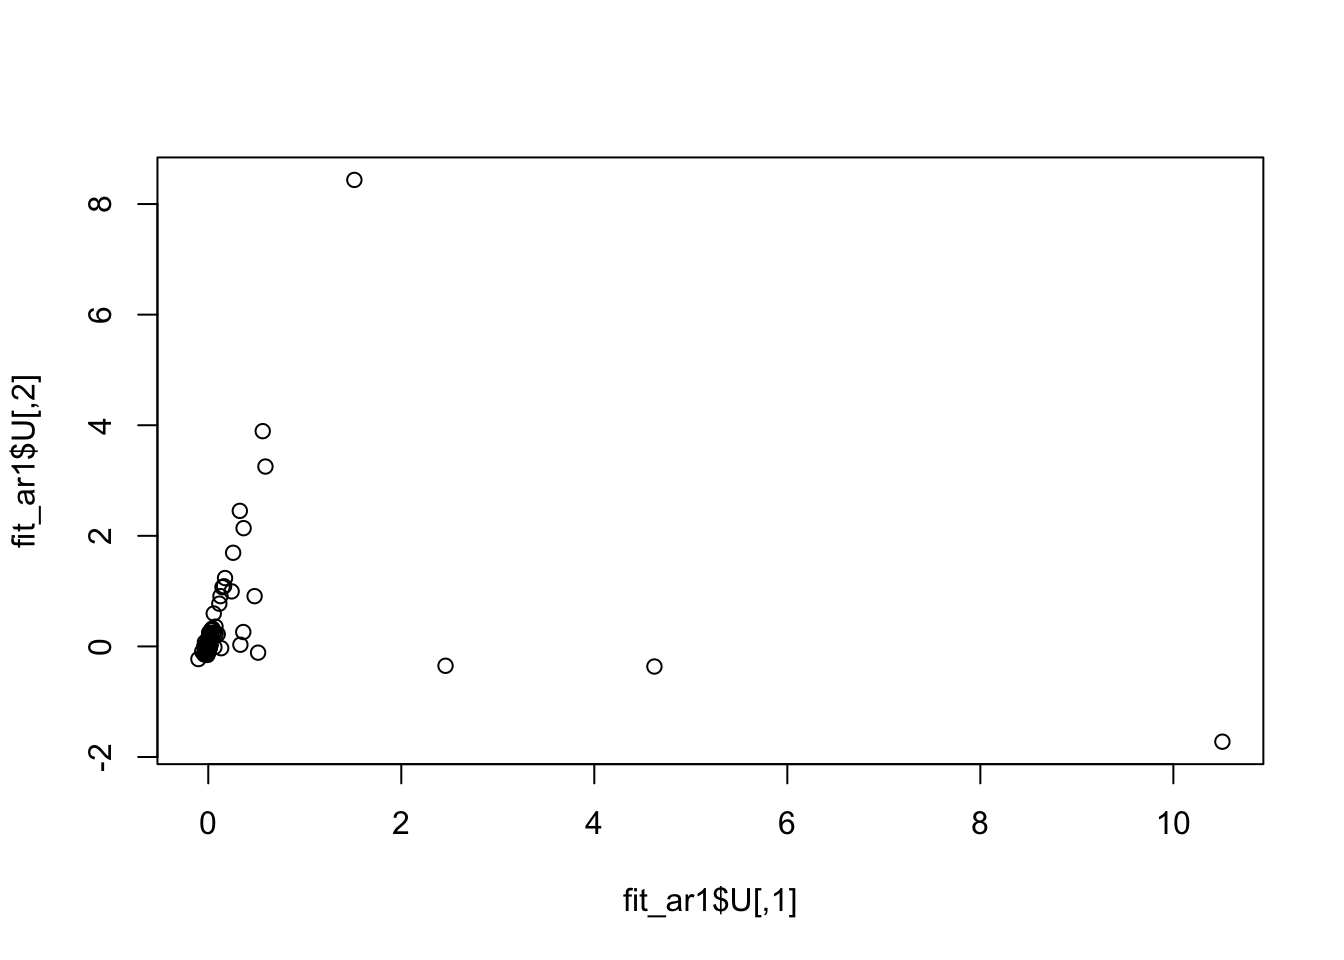
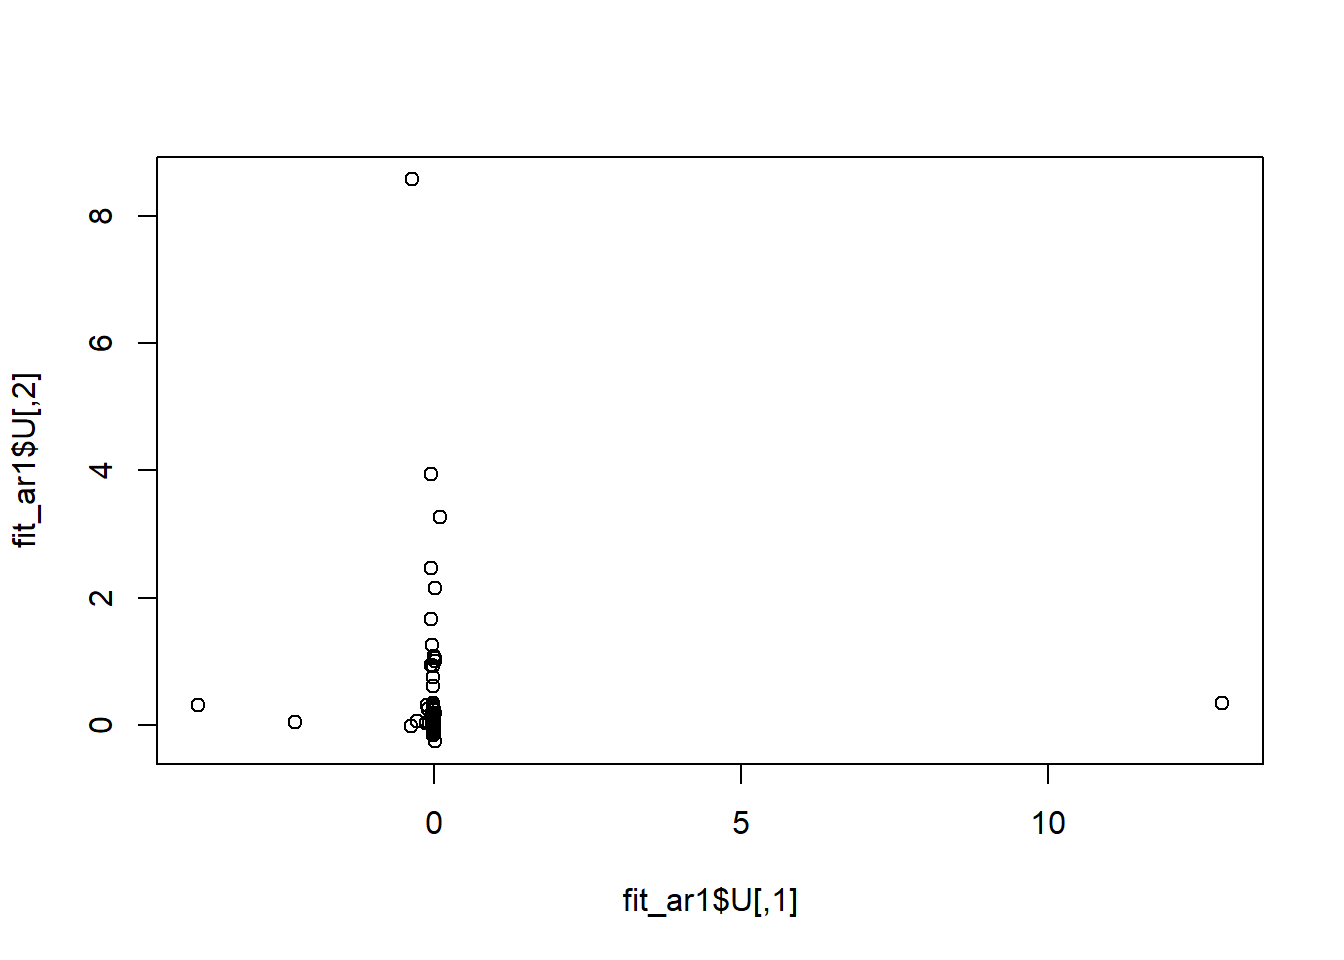
Updated model with family instead of model in ame

diff --git a/docs/week10.html b/docs/week10.html
@@ -14,7 +14,7 @@
 
 <title>Week 10</title>
 
-<script src="site_libs/header-attrs-2.11/header-attrs.js"></script>
+<script src="site_libs/header-attrs-2.20/header-attrs.js"></script>
 <script src="site_libs/jquery-3.6.0/jquery-3.6.0.min.js"></script>
 <meta name="viewport" content="width=device-width, initial-scale=1" />
 <link href="site_libs/bootstrap-3.3.5/css/bootstrap.min.css" rel="stylesheet" />
@@ -61,6 +61,7 @@ if (window.hljs) {
 
 
 
+
 <style type = "text/css">
 .main-container {
   max-width: 940px;
@@ -81,6 +82,9 @@ button.code-folding-btn:focus {
 }
 summary {
   display: list-item;
+}
+details > summary > p:only-child {
+  display: inline;
 }
 pre code {
   padding: 0;
@@ -138,11 +142,15 @@ $(document).ready(function () {
     href = "index.html";
   var menuAnchor = $('a[href="' + href + '"]');
 
-  // mark it active
-  menuAnchor.tab('show');
-
-  // if it's got a parent navbar menu mark it active as well
-  menuAnchor.closest('li.dropdown').addClass('active');
+  // mark the anchor link active (and if it's in a dropdown, also mark that active)
+  var dropdown = menuAnchor.closest('li.dropdown');
+  if (window.bootstrap) { // Bootstrap 4+
+    menuAnchor.addClass('active');
+    dropdown.find('> .dropdown-toggle').addClass('active');
+  } else { // Bootstrap 3
+    menuAnchor.parent().addClass('active');
+    dropdown.addClass('active');
+  }
 
   // Navbar adjustments
   var navHeight = $(".navbar").first().height() + 15;
@@ -171,8 +179,8 @@ $(document).ready(function () {
   border-radius: 4px;
 }
 
-.tabset-dropdown > .nav-tabs > li.active:before {
-  content: "";
+.tabset-dropdown > .nav-tabs > li.active:before, .tabset-dropdown > .nav-tabs.nav-tabs-open:before {
+  content: "\e259";
   font-family: 'Glyphicons Halflings';
   display: inline-block;
   padding: 10px;
@@ -180,16 +188,9 @@ $(document).ready(function () {
 }
 
 .tabset-dropdown > .nav-tabs.nav-tabs-open > li.active:before {
-  content: "&#xe258;";
-  border: none;
-}
-
-.tabset-dropdown > .nav-tabs.nav-tabs-open:before {
-  content: "";
+  content: "\e258";
   font-family: 'Glyphicons Halflings';
-  display: inline-block;
-  padding: 10px;
-  border-right: 1px solid #ddd;
+  border: none;
 }
 
 .tabset-dropdown > .nav-tabs > li.active {
@@ -233,7 +234,7 @@ $(document).ready(function () {
 <div class="navbar navbar-default  navbar-fixed-top" role="navigation">
   <div class="container">
     <div class="navbar-header">
-      <button type="button" class="navbar-toggle collapsed" data-toggle="collapse" data-target="#navbar">
+      <button type="button" class="navbar-toggle collapsed" data-toggle="collapse" data-bs-toggle="collapse" data-target="#navbar" data-bs-target="#navbar">
         <span class="icon-bar"></span>
         <span class="icon-bar"></span>
         <span class="icon-bar"></span>
@@ -285,16 +286,34 @@ $(document).ready(function () {
 
 
 <h1 class="title toc-ignore">Week 10</h1>
-<h4 class="author">Nils W Metternich, Luis Schenoni, and Sigrid Weber</h4>
+<h4 class="author">Nils W Metternich, Luis Schenoni, and Sigrid
+Weber</h4>
 <h4 class="date">2022/23</h4>
 
 </div>
 
 
-<div id="inferential-network-analysis-in-r-part-3" class="section level2">
+<div id="inferential-network-analysis-in-r-part-3"
+class="section level2">
 <h2>Inferential Network Analysis in R (Part 3)</h2>
-<p>This week we look at the second major approach to estimating networks: Latent network models. These are different to ERGMs as they are more concerned about unbiased estimatation of sender, receiver, and dyad effects in the presence of third-order network effects, rather than actually testing which third-order network effects are present. In a sense, latent network models are complicated random effects models, where we try to account for unobserved (e.g. unmeasured third order network effects). We will use the MID and contiguity data to explore this method, but using the MID count as an outcome. Hence, whereas in the past weeks we have focused mostly on binary outcomes, we will now work with weighted network. Since, some of you might have weighted networks, we also will plot and them and introduce the stength of ties as an additional measure.</p>
-<p>This week we also use two additional packages. Igraph: which is an alternative to statnet and has its own plotting and network statistics functions. We will only use it to calculate the strength of ties. Then there is the amen package by Peter Hoff, which allows us to estimate latent network models.</p>
+<p>This week we look at the second major approach to estimating
+networks: Latent network models. These are different to ERGMs as they
+are more concerned about unbiased estimatation of sender, receiver, and
+dyad effects in the presence of third-order network effects, rather than
+actually testing which third-order network effects are present. In a
+sense, latent network models are complicated random effects models,
+where we try to account for unobserved (e.g. unmeasured third order
+network effects). We will use the MID and contiguity data to explore
+this method, but using the MID count as an outcome. Hence, whereas in
+the past weeks we have focused mostly on binary outcomes, we will now
+work with weighted network. Since, some of you might have weighted
+networks, we also will plot and them and introduce the stength of ties
+as an additional measure.</p>
+<p>This week we also use two additional packages. Igraph: which is an
+alternative to statnet and has its own plotting and network statistics
+functions. We will only use it to calculate the strength of ties. Then
+there is the amen package by Peter Hoff, which allows us to estimate
+latent network models.</p>
 <pre class="r"><code>library(igraph)</code></pre>
 <pre><code>## 
 ## Attaching package: &#39;igraph&#39;</code></pre>
@@ -312,15 +331,11 @@ $(document).ready(function () {
 <pre><code>## Loading required package: tergm</code></pre>
 <pre><code>## Loading required package: ergm</code></pre>
 <pre><code>## Loading required package: network</code></pre>
-<pre><code>## network: Classes for Relational Data
-## Version 1.16.0 created on 2019-11-30.
-## copyright (c) 2005, Carter T. Butts, University of California-Irvine
-##                     Mark S. Handcock, University of California -- Los Angeles
-##                     David R. Hunter, Penn State University
-##                     Martina Morris, University of Washington
-##                     Skye Bender-deMoll, University of Washington
-##  For citation information, type citation(&quot;network&quot;).
-##  Type help(&quot;network-package&quot;) to get started.</code></pre>
+<pre><code>## 
+## &#39;network&#39; 1.18.1 (2023-01-24), part of the Statnet Project
+## * &#39;news(package=&quot;network&quot;)&#39; for changes since last version
+## * &#39;citation(&quot;network&quot;)&#39; for citation information
+## * &#39;https://statnet.org&#39; for help, support, and other information</code></pre>
 <pre><code>## 
 ## Attaching package: &#39;network&#39;</code></pre>
 <pre><code>## The following objects are masked from &#39;package:igraph&#39;:
@@ -330,85 +345,50 @@ $(document).ready(function () {
 ##     is.directed, list.edge.attributes, list.vertex.attributes,
 ##     set.edge.attribute, set.vertex.attribute</code></pre>
 <pre><code>## 
-## ergm: version 3.10.4, created on 2019-06-10
-## Copyright (c) 2019, Mark S. Handcock, University of California -- Los Angeles
-##                     David R. Hunter, Penn State University
-##                     Carter T. Butts, University of California -- Irvine
-##                     Steven M. Goodreau, University of Washington
-##                     Pavel N. Krivitsky, University of Wollongong
-##                     Martina Morris, University of Washington
-##                     with contributions from
-##                     Li Wang
-##                     Kirk Li, University of Washington
-##                     Skye Bender-deMoll, University of Washington
-##                     Chad Klumb
-## Based on &quot;statnet&quot; project software (statnet.org).
-## For license and citation information see statnet.org/attribution
-## or type citation(&quot;ergm&quot;).</code></pre>
-<pre><code>## NOTE: Versions before 3.6.1 had a bug in the implementation of the bd()
-## constriant which distorted the sampled distribution somewhat. In
-## addition, Sampson&#39;s Monks datasets had mislabeled vertices. See the
-## NEWS and the documentation for more details.</code></pre>
-<pre><code>## NOTE: Some common term arguments pertaining to vertex attribute and
-## level selection have changed in 3.10.0. See terms help for more
-## details. Use &#39;options(ergm.term=list(version=&quot;3.9.4&quot;))&#39; to use old
-## behavior.</code></pre>
+## &#39;ergm&#39; 4.3.2 (2022-11-21), part of the Statnet Project
+## * &#39;news(package=&quot;ergm&quot;)&#39; for changes since last version
+## * &#39;citation(&quot;ergm&quot;)&#39; for citation information
+## * &#39;https://statnet.org&#39; for help, support, and other information</code></pre>
+<pre><code>## &#39;ergm&#39; 4 is a major update that introduces some backwards-incompatible
+## changes. Please type &#39;news(package=&quot;ergm&quot;)&#39; for a list of major
+## changes.</code></pre>
 <pre><code>## Loading required package: networkDynamic</code></pre>
 <pre><code>## 
-## networkDynamic: version 0.10.1, created on 2020-01-16
-## Copyright (c) 2020, Carter T. Butts, University of California -- Irvine
-##                     Ayn Leslie-Cook, University of Washington
-##                     Pavel N. Krivitsky, University of Wollongong
-##                     Skye Bender-deMoll, University of Washington
-##                     with contributions from
-##                     Zack Almquist, University of California -- Irvine
-##                     David R. Hunter, Penn State University
-##                     Li Wang
-##                     Kirk Li, University of Washington
-##                     Steven M. Goodreau, University of Washington
-##                     Jeffrey Horner
-##                     Martina Morris, University of Washington
-## Based on &quot;statnet&quot; project software (statnet.org).
-## For license and citation information see statnet.org/attribution
-## or type citation(&quot;networkDynamic&quot;).</code></pre>
+## &#39;networkDynamic&#39; 0.11.2 (2022-05-04), part of the Statnet Project
+## * &#39;news(package=&quot;networkDynamic&quot;)&#39; for changes since last version
+## * &#39;citation(&quot;networkDynamic&quot;)&#39; for citation information
+## * &#39;https://statnet.org&#39; for help, support, and other information</code></pre>
+<pre><code>## Registered S3 method overwritten by &#39;tergm&#39;:
+##   method                   from
+##   simulate_formula.network ergm</code></pre>
 <pre><code>## 
-## tergm: version 3.6.1, created on 2019-06-12
-## Copyright (c) 2019, Pavel N. Krivitsky, University of Wollongong
-##                     Mark S. Handcock, University of California -- Los Angeles
-##                     with contributions from
-##                     David R. Hunter, Penn State University
-##                     Steven M. Goodreau, University of Washington
-##                     Martina Morris, University of Washington
-##                     Nicole Bohme Carnegie, New York University
-##                     Carter T. Butts, University of California -- Irvine
-##                     Ayn Leslie-Cook, University of Washington
-##                     Skye Bender-deMoll
-##                     Li Wang
-##                     Kirk Li, University of Washington
-## Based on &quot;statnet&quot; project software (statnet.org).
-## For license and citation information see statnet.org/attribution
-## or type citation(&quot;tergm&quot;).</code></pre>
+## &#39;tergm&#39; 4.1.1 (2022-11-07), part of the Statnet Project
+## * &#39;news(package=&quot;tergm&quot;)&#39; for changes since last version
+## * &#39;citation(&quot;tergm&quot;)&#39; for citation information
+## * &#39;https://statnet.org&#39; for help, support, and other information</code></pre>
+<pre><code>## 
+## Attaching package: &#39;tergm&#39;</code></pre>
+<pre><code>## The following object is masked from &#39;package:ergm&#39;:
+## 
+##     snctrl</code></pre>
 <pre><code>## Loading required package: ergm.count</code></pre>
 <pre><code>## 
-## ergm.count: version 3.4.0, created on 2019-05-15
-## Copyright (c) 2019, Pavel N. Krivitsky, University of Wollongong
-##                     with contributions from
-##                     Mark S. Handcock, University of California -- Los Angeles
-##                     David R. Hunter, Penn State University
-## Based on &quot;statnet&quot; project software (statnet.org).
-## For license and citation information see statnet.org/attribution
-## or type citation(&quot;ergm.count&quot;).</code></pre>
-<pre><code>## NOTE: The form of the term &#39;CMP&#39; has been changed in version 3.2 of
-## &#39;ergm.count&#39;. See the news or help(&#39;CMP&#39;) for more information.</code></pre>
+## &#39;ergm.count&#39; 4.1.1 (2022-05-24), part of the Statnet Project
+## * &#39;news(package=&quot;ergm.count&quot;)&#39; for changes since last version
+## * &#39;citation(&quot;ergm.count&quot;)&#39; for citation information
+## * &#39;https://statnet.org&#39; for help, support, and other information</code></pre>
 <pre><code>## Loading required package: sna</code></pre>
 <pre><code>## Loading required package: statnet.common</code></pre>
 <pre><code>## 
 ## Attaching package: &#39;statnet.common&#39;</code></pre>
-<pre><code>## The following object is masked from &#39;package:base&#39;:
+<pre><code>## The following object is masked from &#39;package:ergm&#39;:
 ## 
-##     order</code></pre>
+##     snctrl</code></pre>
+<pre><code>## The following objects are masked from &#39;package:base&#39;:
+## 
+##     attr, order</code></pre>
 <pre><code>## sna: Tools for Social Network Analysis
-## Version 2.5 created on 2019-12-09.
+## Version 2.7-1 created on 2023-01-24.
 ## copyright (c) 2005, Carter T. Butts, University of California-Irvine
 ##  For citation information, type citation(&quot;sna&quot;).
 ##  Type help(package=&quot;sna&quot;) to get started.</code></pre>
@@ -420,30 +400,26 @@ $(document).ready(function () {
 ##     evcent, hierarchy, is.connected, neighborhood, triad.census</code></pre>
 <pre><code>## Loading required package: tsna</code></pre>
 <pre><code>## 
-## statnet: version 2019.6, created on 2019-06-13
-## Copyright (c) 2019, Mark S. Handcock, University of California -- Los Angeles
-##                     David R. Hunter, Penn State University
-##                     Carter T. Butts, University of California -- Irvine
-##                     Steven M. Goodreau, University of Washington
-##                     Pavel N. Krivitsky, University of Wollongong
-##                     Skye Bender-deMoll
-##                     Martina Morris, University of Washington
-## Based on &quot;statnet&quot; project software (statnet.org).
-## For license and citation information see statnet.org/attribution
-## or type citation(&quot;statnet&quot;).</code></pre>
+## &#39;statnet&#39; 2019.6 (2019-06-13), part of the Statnet Project
+## * &#39;news(package=&quot;statnet&quot;)&#39; for changes since last version
+## * &#39;citation(&quot;statnet&quot;)&#39; for citation information
+## * &#39;https://statnet.org&#39; for help, support, and other information</code></pre>
 <pre><code>## unable to reach CRAN</code></pre>
 <pre class="r"><code>library(amen)</code></pre>
 </div>
 <div id="preparing-the-data" class="section level2">
 <h2>Preparing the data</h2>
-<p>We now load the MID data and construct our border adjacency matrix. This is similar to last week, but we stop at the matrix stage. This is because amen simply takes matrices and arrays as input and not network objects like ERGMs did last week.</p>
+<p>We now load the MID data and construct our border adjacency matrix.
+This is similar to last week, but we stop at the matrix stage. This is
+because amen simply takes matrices and arrays as input and not network
+objects like ERGMs did last week.</p>
 <pre class="r"><code>#Distance matrix
 dist.matrix &lt;- distmatrix(date=as.Date(&quot;2002-1-1&quot;),type = &quot;mindist&quot;,useGW = FALSE)
   adj.matrix &lt;- ifelse(dist.matrix==0,1,0)
     diag(adj.matrix) &lt;- 0 #need to set the diagonal to 0
 
 #MID matrix
-mid &lt;- read.csv(&quot;~/Dropbox/UCL/courses/networks/data/Dyadic MIDs 4/dyadic_mid_4.02.csv&quot;) #First we load the data. You will need to change the path to do this.
+mid &lt;- read.csv(&quot;C:/Users/sigri/Dropbox/8_Teaching/Spread of Conflict in Int. Relations/networkCourse/data_week4/dyadic_mid_4.02.csv&quot;) #First we load the data. You will need to change the path to do this.
 mid &lt;- mid[mid$rolea==1,c(&quot;statea&quot;,&quot;stateb&quot;,&quot;strtyr&quot;)]
 
 states &lt;- unique(c(as.character(mid$statea),as.character(mid$stateb)))
@@ -463,12 +439,18 @@ adj.matrix &lt;- adj.matrix[joint.states,joint.states]</code></pre>
 </div>
 <div id="estimating-with-amen" class="section level2">
 <h2>Estimating with amen</h2>
-<p>Now that we have the our outcome and our independent variable, we are ready to estimate a latent network model with amen. First, we define our outcome Y (count of MIDs). Second, we define our main explanatory variable Xdyad (whether or not two states share a border). In amen, we can also specify sender, receiver, and additional dyadic explanatory variables, but in this example we only have one observed explanatory variable (matrix).</p>
+<p>Now that we have the our outcome and our independent variable, we are
+ready to estimate a latent network model with amen. First, we define our
+outcome Y (count of MIDs). Second, we define our main explanatory
+variable Xdyad (whether or not two states share a border). In amen, we
+can also specify sender, receiver, and additional dyadic explanatory
+variables, but in this example we only have one observed explanatory
+variable (matrix).</p>
 <pre class="r"><code>#outcome
 Y &lt;- midMat
 Xdyad &lt;- adj.matrix
 
-fit_ar1&lt;-ame(Y,Xdyad,model=&quot;nrm&quot;,plot=FALSE,R=2,nscan =
+fit_ar1&lt;-ame(Y,Xdyad,family=&quot;nrm&quot;,plot=FALSE,R=2,nscan =
 1000, burn = 200, odens = 10)
 
 summary(fit_ar1)
@@ -482,9 +464,16 @@ plot(fit_ar1$U) # sender network</code></pre>
 <pre class="r"><code>plot(fit_ar1$V) # receiver network</code></pre>
 <p><img src="week10_files/figure-html/unnamed-chunk-3-2.png" width="672" /></p>
 </div>
-<div id="plotting-and-measuring-strength-of-ties" class="section level2">
+<div id="plotting-and-measuring-strength-of-ties"
+class="section level2">
 <h2>Plotting and measuring strength of ties</h2>
-<p>In the past weeks, we mainly dealt with binary variables or at least treated them as such. Now we will look at weighed networks. Let us start with a matrix of five nodes and add some weighted links. The important bit here is that once we have the weighted matrix, we need to slightly change the options in the network function to tell R that the matrix should be treated as a weighted network. Note that we are using the plot and not the gplot function in this example.</p>
+<p>In the past weeks, we mainly dealt with binary variables or at least
+treated them as such. Now we will look at weighed networks. Let us start
+with a matrix of five nodes and add some weighted links. The important
+bit here is that once we have the weighted matrix, we need to slightly
+change the options in the network function to tell R that the matrix
+should be treated as a weighted network. Note that we are using the plot
+and not the gplot function in this example.</p>
 <pre class="r"><code>my.matrix &lt;- matrix(data=0,nrow=5,ncol=5)
   colnames(my.matrix) &lt;- c(&quot;A&quot;,&quot;B&quot;,&quot;C&quot;,&quot;D&quot;,&quot;E&quot;)
     rownames(my.matrix) &lt;- c(&quot;A&quot;,&quot;B&quot;,&quot;C&quot;,&quot;D&quot;,&quot;E&quot;)
@@ -552,7 +541,12 @@ summary(my.net)</code></pre>
 <pre class="r"><code>plot(my.net, displaylabels=TRUE,
  label.cex=.75,label.col=&quot;black&quot;,edge.lwd=&quot;weight&quot;, edge.col=&quot;weight&quot;,vertex.cex=2) # Edges color and line width according to weight</code></pre>
 <p><img src="week10_files/figure-html/unnamed-chunk-4-2.png" width="672" /></p>
-<p>Now we would also like to calculate the strength of ties for each node. This is similar to the nodal degree, but now accounting for the weight of the ties. If, e.g., a node has two links and each link has a value of 2 the strength would be 2x2. For this measure, we will use the igraph packages. Reading a matrix to a graph is a bit different, but once you have it, you can use the strength function.</p>
+<p>Now we would also like to calculate the strength of ties for each
+node. This is similar to the nodal degree, but now accounting for the
+weight of the ties. If, e.g., a node has two links and each link has a
+value of 2 the strength would be 2x2. For this measure, we will use the
+igraph packages. Reading a matrix to a graph is a bit different, but
+once you have it, you can use the strength function.</p>
 <pre class="r"><code>g1 &lt;- graph_from_adjacency_matrix(my.matrix, mode = &quot;undirected&quot;, diag = FALSE, weighted=TRUE)
 
 strength(g1)</code></pre>
@@ -561,7 +555,11 @@ strength(g1)</code></pre>
 </div>
 <div id="plotting-nodal-characteristics" class="section level2">
 <h2>Plotting nodal characteristics</h2>
-<p>Here is a little extra on how to plot nodal characteristics. You can use the set.vertex.attribute function to include vertex/node attributes. Once you have defined them, you can use them to plot, e.g., the node color accordingly. Note that we are using the plot not the gplot function in this example.</p>
+<p>Here is a little extra on how to plot nodal characteristics. You can
+use the set.vertex.attribute function to include vertex/node attributes.
+Once you have defined them, you can use them to plot, e.g., the node
+color accordingly. Note that we are using the plot not the gplot
+function in this example.</p>
 <pre class="r"><code>#edgelist
 my.list &lt;- rbind(c(1,2), #AB
                 c(1,4), #AD
